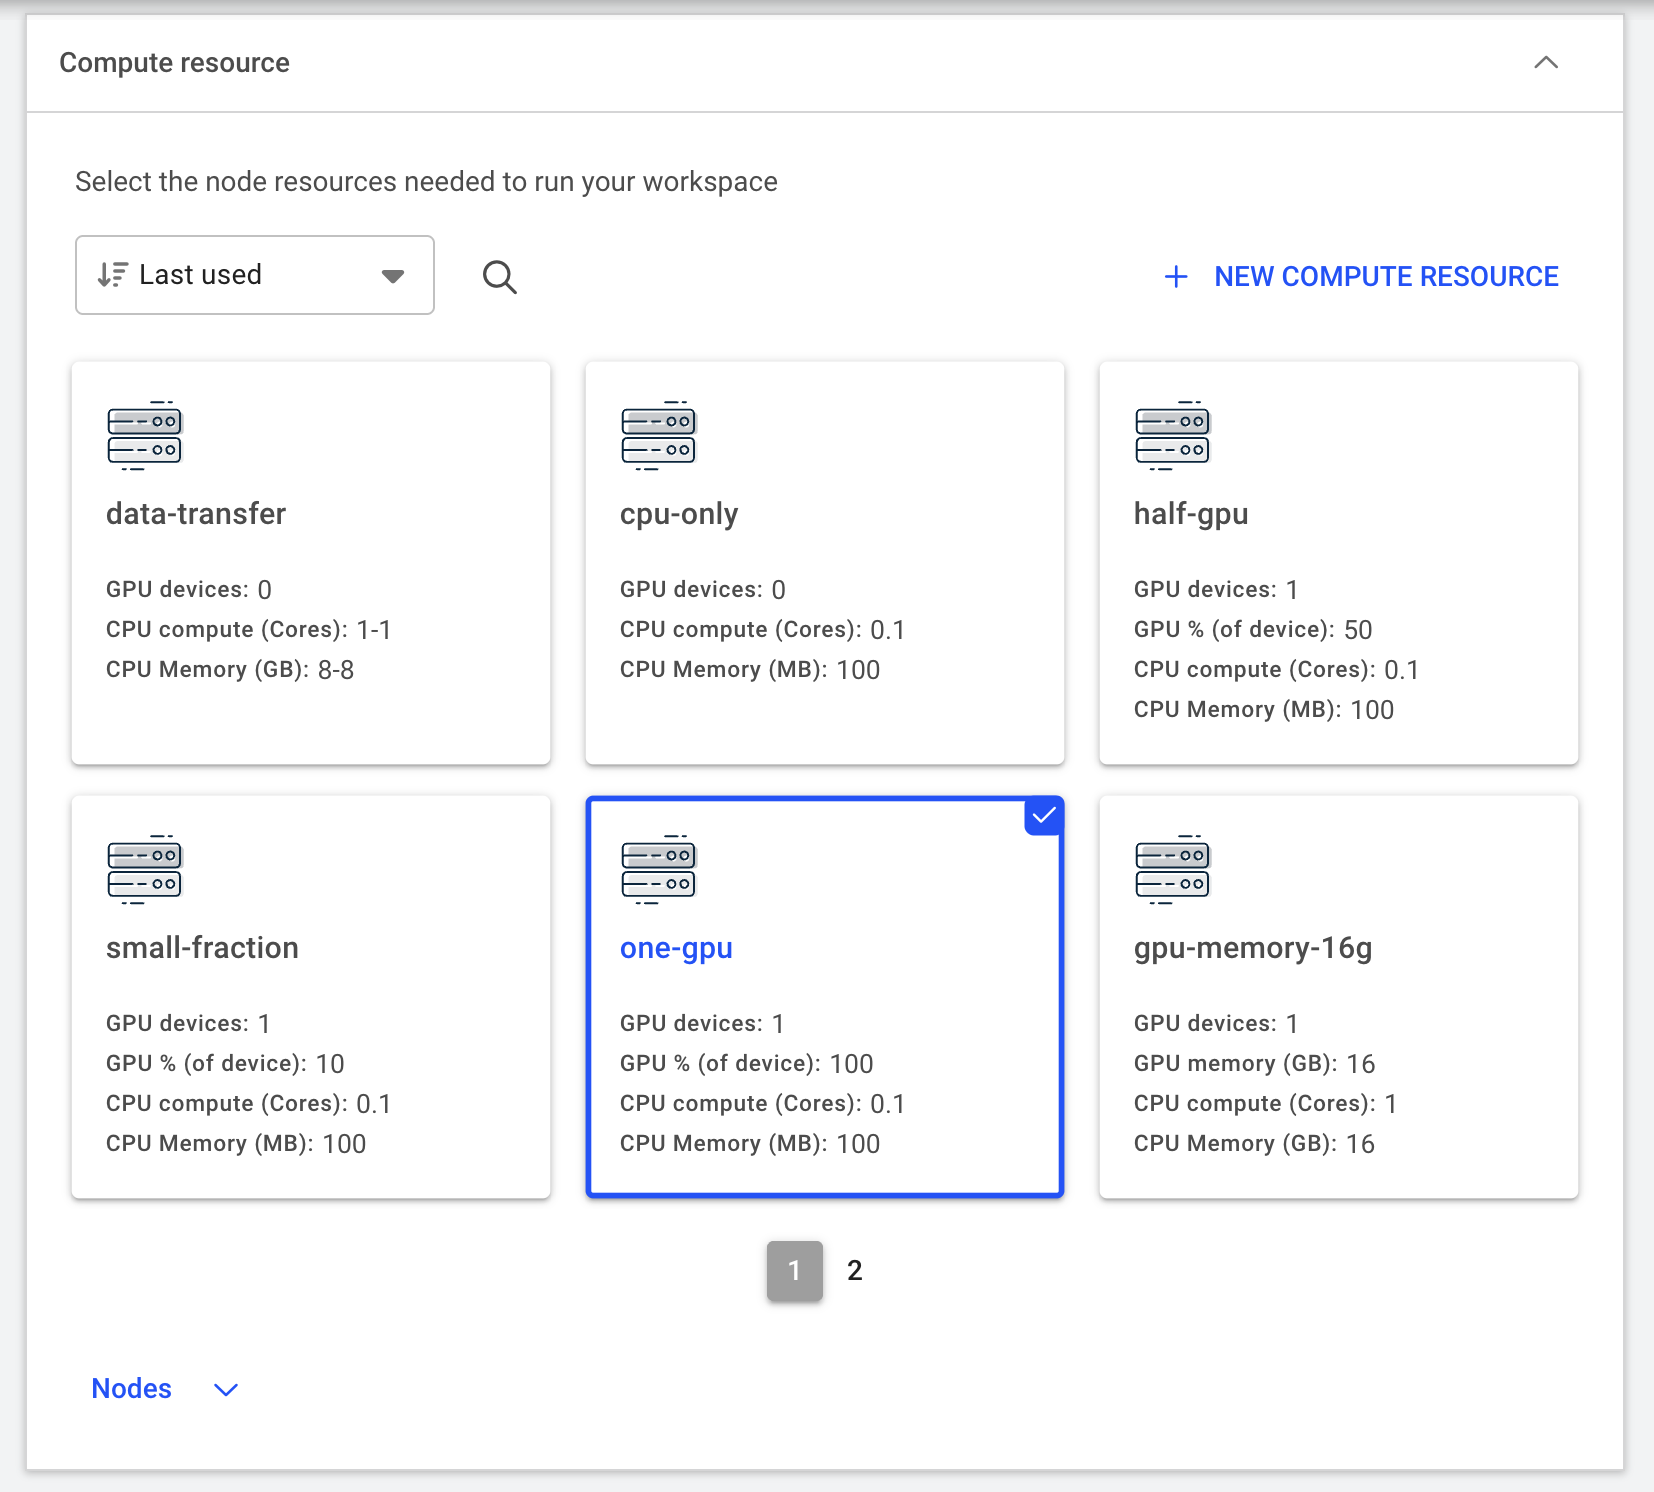
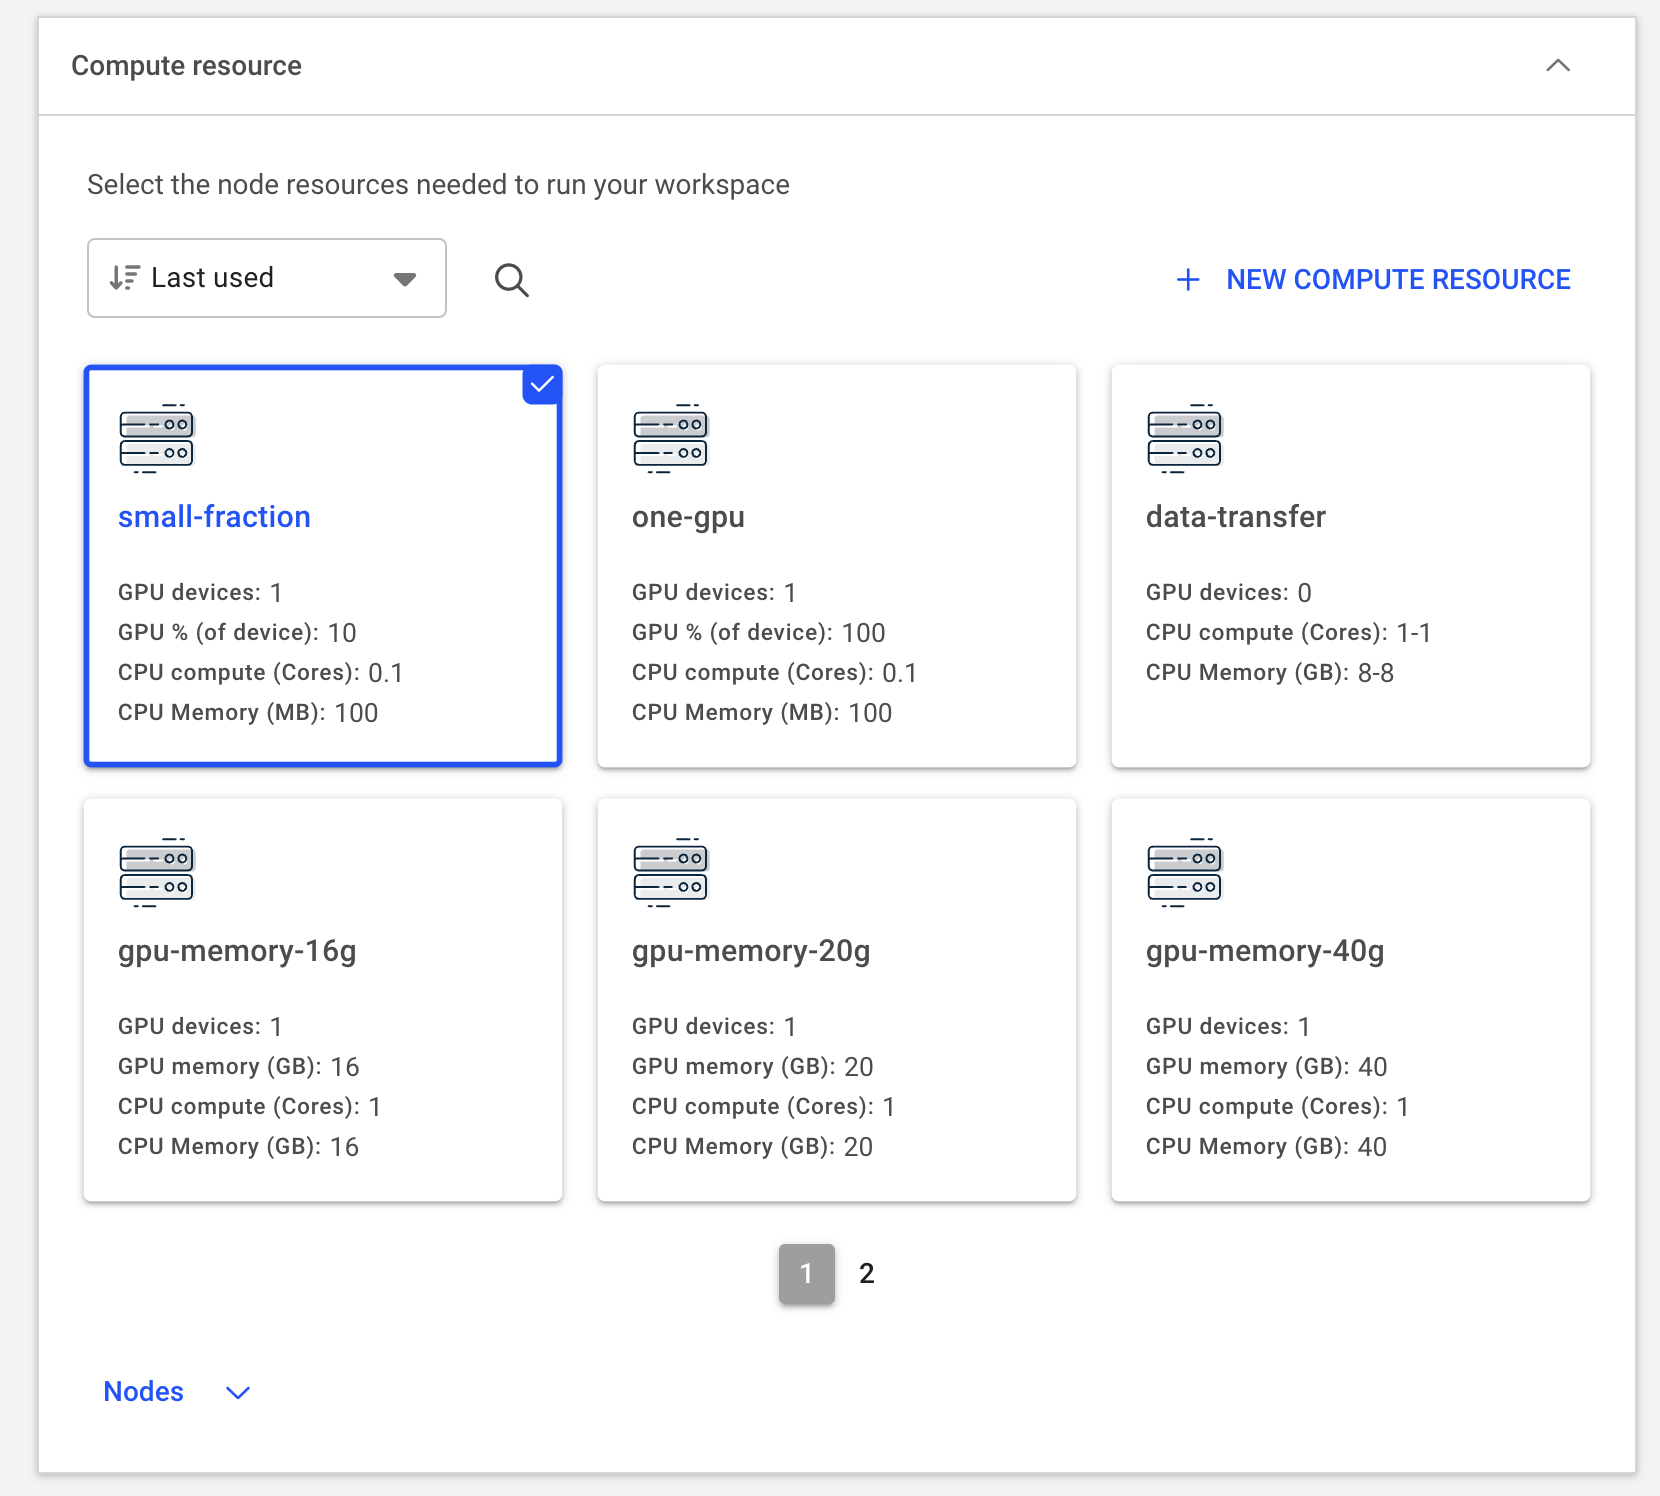
Built site for gh-pages

diff --git a/notebooks/jupyter_tutorial.html b/notebooks/jupyter_tutorial.html
@@ -282,7 +282,8 @@ cookieconsent.run({
   <ul class="collapse">
   <li><a href="#step-1-create-a-workload" id="toc-step-1-create-a-workload" class="nav-link" data-scroll-target="#step-1-create-a-workload">Step 1: Create a workload</a></li>
   <li><a href="#step-2-configure-the-workload-from-scratch" id="toc-step-2-configure-the-workload-from-scratch" class="nav-link" data-scroll-target="#step-2-configure-the-workload-from-scratch">Step 2: Configure the workload from scratch</a></li>
-  <li><a href="#optional-create-a-workload-from-a-template" id="toc-optional-create-a-workload-from-a-template" class="nav-link" data-scroll-target="#optional-create-a-workload-from-a-template">Optional: Create a workload from a template</a></li>
+  <li><a href="#step-3-connect-to-jupyter-lab" id="toc-step-3-connect-to-jupyter-lab" class="nav-link" data-scroll-target="#step-3-connect-to-jupyter-lab">Step 3: Connect to Jupyter Lab</a></li>
+  <li><a href="#optional-step-4-inspect-system-logs" id="toc-optional-step-4-inspect-system-logs" class="nav-link" data-scroll-target="#optional-step-4-inspect-system-logs">(Optional) Step 4: Inspect system logs</a></li>
   </ul></li>
   </ul>
 </nav>
@@ -301,32 +302,83 @@ cookieconsent.run({
 <li>Being granted permission to an active project</li>
 <li>An <a href="../notebooks/environments.html">environment</a> to run such job</li>
 <li>Have created a data source, e.g.&nbsp;a PVC, to store your input and output data</li>
-<li>Understand the compute resources you need to run the job and have the option available under Compute Resources</li>
+<li>Understand the compute resources you need to run the job and have the option available under “Compute Resources”</li>
 </ul>
 <p>In this tutorial, we will create a simple Jupyter Lab workload that allows you to run Jupyter notebooks interactively on the SIH GPU cluster.</p>
 <section id="step-1-create-a-workload" class="level2">
 <h2 class="anchored" data-anchor-id="step-1-create-a-workload">Step 1: Create a workload</h2>
-<p>Navigate to the Workloads section of the platform and click on the “NEW WORKLOAD” button. Select “Workspace” from the dropdown menu. <img src="../fig/workload_create_workspace.png" class="img-fluid" alt="New workload"></p>
+<p>Navigate to the Workloads section of the platform and click on the “NEW WORKLOAD” button. Select “Workspace” from the dropdown menu.</p>
+<div class="quarto-figure quarto-figure-center">
+<figure class="figure">
+<p><img src="../fig/workload_create_workspace.png" class="img-fluid figure-img"></p>
+<figcaption>New workload</figcaption>
+</figure>
+</div>
 </section>
 <section id="step-2-configure-the-workload-from-scratch" class="level2">
 <h2 class="anchored" data-anchor-id="step-2-configure-the-workload-from-scratch">Step 2: Configure the workload from scratch</h2>
-<p>Fill in the necessary details for your workload:</p>
+<p>Define the necessary information for your workload:</p>
 <ul>
 <li>Under “Projects” select the project it will be linked to</li>
-<li>Under “Templates” select “Start from sratch” (do not use any existing template) <img src="../fig/workload_definition.png" class="img-fluid" alt="Project and Template"></li>
-<li>Under “Environment” select the Jupyter Lab container environment you want to run <img src="../fig/workload_environment.png" class="img-fluid" alt="Software environment"></li>
-<li>Under “Compute resource” select the resources required. <img src="../fig/workload_comp_resource.png" class="img-fluid" alt="Compute resource"></li>
+<li>Under “Templates” select “Start from sratch” (<em>i.e.</em> do not use any existing template)</li>
+<li>Provide a descriptive name for the workload</li>
 </ul>
-<p>There are other optional components you can add to a workload depending on the needs of your task. These include:</p>
+<div class="quarto-figure quarto-figure-center">
+<figure class="figure">
+<p><img src="../fig/workload_definition.png" class="img-fluid figure-img"></p>
+<figcaption>Project and Template</figcaption>
+</figure>
+</div>
 <ul>
-<li>Volume (i.e.&nbsp;temporary data storage)</li>
-<li>Data Sources (e.g.&nbsp;PVCs)</li>
-<li>Other general settings <img src="../fig/workload_additional_setups.png" class="img-fluid"></li>
+<li>Select an environment to create the container. The SIH team has prepared a <a href="https://hub.docker.com/r/sydneyinformaticshub/dgx-interactive-jupyterlab">pre-built image</a> (<code>sydneyinformatics/dgx-interactive-jupyterlab</code>) with Jupyter Lab and commonly used data science packages installed.</li>
+</ul>
+<div class="quarto-figure quarto-figure-center">
+<figure class="figure">
+<p><img src="../fig/workload_environment.png" class="img-fluid figure-img"></p>
+<figcaption>Software environment</figcaption>
+</figure>
+</div>
+<ul>
+<li>Select the amount of compute resources to run the workload. In this tutorial, we will select the <code>small-fraction</code> option that requires 1 H200 GPU with 10% of its memory (~14GB).</li>
+</ul>
+<div class="quarto-figure quarto-figure-center">
+<figure class="figure">
+<p><img src="../fig/workload_comp_resource.png" class="img-fluid figure-img"></p>
+<figcaption>Compute resource</figcaption>
+</figure>
+</div>
+<ul>
+<li>Configure the <a href="../notebooks/data_sources.html">data source</a> to be mounted to the container. Here we select the default PVC created for the project. The mount path inside the container is set to <code>/scratch/&lt;dashr_project_shortcode&gt;</code>.</li>
+</ul>
+<div class="quarto-figure quarto-figure-center">
+<figure class="figure">
+<p><img src="../fig/workload_datasource.png" class="img-fluid figure-img"></p>
+<figcaption>Data resource</figcaption>
+</figure>
+</div>
+<ul>
+<li>Lastly, Click on “CREATE WORKLOAD” to submit the workload to the cluster.</li>
 </ul>
 </section>
-<section id="optional-create-a-workload-from-a-template" class="level2">
-<h2 class="anchored" data-anchor-id="optional-create-a-workload-from-a-template">Optional: Create a workload from a template</h2>
-<p>Besides the project allocation, all the other workload components can be populated from a pre-defined template: <img src="../fig/workload_template.png" class="img-fluid" alt="Create workload from existing template"></p>
+<section id="step-3-connect-to-jupyter-lab" class="level2">
+<h2 class="anchored" data-anchor-id="step-3-connect-to-jupyter-lab">Step 3: Connect to Jupyter Lab</h2>
+<p>When the status changes to “Running”, you can access the Jupyter Lab interface by selecting “Jupyter” under “CONNECT”.</p>
+<div class="quarto-figure quarto-figure-center">
+<figure class="figure">
+<p><img src="../fig/workload_connect_jupyter.png" class="img-fluid figure-img"></p>
+<figcaption>Connect to the Jupyter Lab interface</figcaption>
+</figure>
+</div>
+</section>
+<section id="optional-step-4-inspect-system-logs" class="level2">
+<h2 class="anchored" data-anchor-id="optional-step-4-inspect-system-logs">(Optional) Step 4: Inspect system logs</h2>
+<p>You can review the system logs to access details about event history, workload metrics, and real-time container output. This information is especially useful for debugging issues when a workload fails to start.</p>
+<div class="quarto-figure quarto-figure-center">
+<figure class="figure">
+<p><img src="../fig/workload_logs.png" class="img-fluid figure-img"></p>
+<figcaption>Workload logs</figcaption>
+</figure>
+</div>
 
 
 </section>

diff --git a/notebooks/data_sources.html b/notebooks/data_sources.html
@@ -290,6 +290,15 @@ cookieconsent.run({
 
 <section id="data-sources" class="level1">
 <h1>Data Sources</h1>
+<p>Data sources in Run:ai allow you to connect additional storage systems to your Run:ai projects, enabling seamless access to datasets required for your workloads. Run:ai supports various types of data sources, including PVC (<a href="https://kubernetes.io/docs/concepts/storage/persistent-volumes/">Persistent Volume Claim</a>), NFS, S3-compatible storage, and more.</p>
+<p>When a Run:ai project is created, a default data source (PVC) is automatically set up for this project. You can find the data source under the “Data Sources”, listed as <code>pvc-&lt;dashr_project_shortcode&gt;</code>:</p>
+<div class="quarto-figure quarto-figure-center">
+<figure class="figure">
+<p><img src="../fig/default_data_source.png" class="img-fluid figure-img"></p>
+<figcaption>Default Data Source</figcaption>
+</figure>
+</div>
+<p>This dedicated persistent storage can be accessable from any workload running within the same project. The default mount path inside the container is <code>/scratch/&lt;dashr_project_shortcode&gt;</code>. It is especially useful for storing intermediate results, model checkpoints, and <a href="../notebooks/data_transfer.html">uploading data to the cluster</a> from external sources (<em>e.g.</em> RDS).</p>
 
 
 </section>
